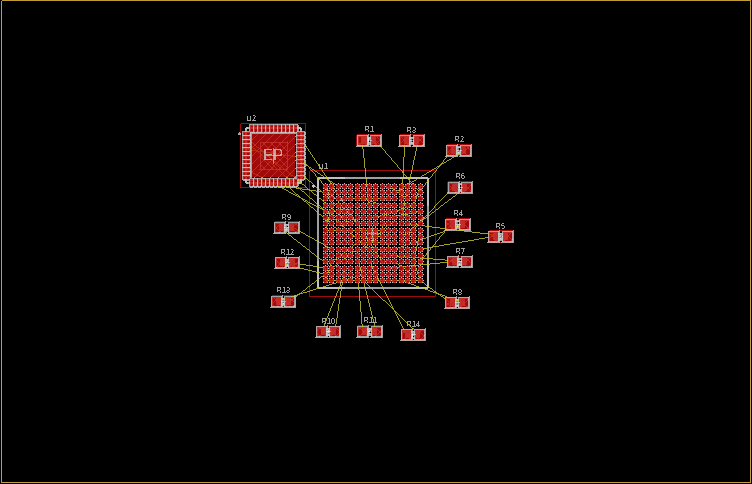
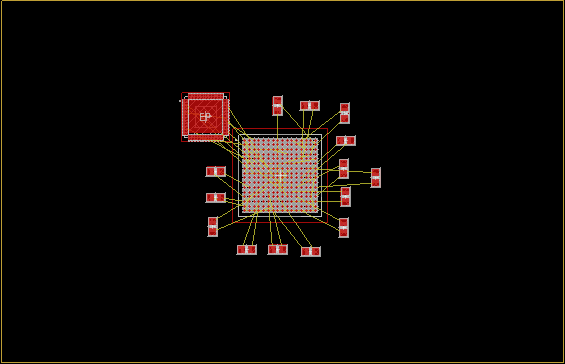
Refresh placer before/after images; align docs with selection-driven placer
New before/after screenshots from a converged tighten-placement run
(signal-airwire 2899 -> 375 mm, -87%; crossings 432 -> 34). PLACE.md and
README reworded to match the current selection-driven placer: rotation
always on, always writes + verifies, GROUP-select input, kept
design-agnostic.

Changed region(s): [[0.3009, 0.2418, 0.692, 0.7253], [0.0, 0.0, 1.0, 1.0]]

diff --git a/docs/PLACE.md b/docs/PLACE.md
@@ -1,12 +1,13 @@
 # Placement — minimal-airwire component placement
 
 `src/place.py` is Steinmetz's first tool. It reads a live Fusion Electronics
-board, computes an **initial placement that minimizes ratsnest (airwire)
-length**, and writes the moves back over the bridge. It is *constructive* — it
-places parts from their connectivity rather than nudging an existing layout.
-By default it is **translation-only**; with `--rotate` it adds a 90°-step
-**orientation** refinement that further shortens airwire and breaks crossings
-(see [§5](#5-rotation---rotate)).
+board and re-places the **selected** parts to minimize ratsnest (airwire)
+length, holding every other part fixed, then writes the moves back over the
+bridge and verifies them. The selection is read over the bridge (see
+`src/selection.py`) — **select nothing and it does nothing**. Placement is
+connectivity-driven — it positions the selected parts from where their nets land
+on the fixed board rather than nudging an existing layout — and it always runs a
+rotation-refinement pass (`--rotate` sets the step, default 90°).
 
 ## Iterative tightening loop
 
@@ -19,15 +20,15 @@ by < 1 mm.
 
 ## Before / after
 
-A 16-part ECP5 BGA board with the passives scattered off-board, placed in one
-pass (`--anchors 1`, anchoring only the BGA):
+A set of selected parts pulled from a scattered state into a tight cluster that
+minimizes airwire, while the rest of the board stays fixed:
 
-| Before — scattered | After — placed |
+| Before | After |
 |---|---|
 | ![before](img/place-before.png) | ![after](img/place-after.png) |
 
-**Signal-airwire: 3084 → 377 mm (−88%)**, 15 parts moved and verified. The
-fan of long airwires collapses into a tight ring of short ones hugging the BGA.
+Each run prints the before/after signal-airwire length and crossing count; the
+tightening loop refreshes these images from a converged run.
 
 ## Methodology
 
@@ -48,26 +49,27 @@ its pad positions (`mst_len` in `place.py`) — the same thing Fusion's ratsnest
 draws. The cost is the sum over **signal nets only**: power/plane nets (`GND`,
 `VCC*`, anything with ≥ 8 pins) are excluded, because they are poured/planed
 rather than routed point-to-point — counting them would just drag every
-decoupling cap onto the BGA. Classification is `is_power()` (name pattern or
-high fan-out); extra nets can be excluded with `--ignore-nets`.
+decoupling cap toward the fixed parts. Classification is `is_power()` (name
+pattern or high fan-out); extra nets can be excluded with `--ignore-nets`.
 
-### 3. Anchors — why something must stay fixed
+### 3. The fixed frame — why something must stay put
 
-Airwire length is **relative**: with no fixed part, the global optimum is "every
-part stacked on one point" (airwire → 0), which is meaningless. So the placer
-**pins the N largest-area packages** (the ICs) plus any `--lock` matches, and
-moves everything else. The BGA is the natural anchor — biggest, highest-pin,
-the center of the design. `--anchors 1` pins only it and moves all the rest
-(including a second IC); `--anchors 2` pins the top two.
+Airwire length is **relative**: if every part could move, the global optimum is
+"all parts stacked on one point" (airwire → 0), which is meaningless. The placer
+resolves this by moving **only the selected parts** and holding everything else
+fixed — the unselected parts are the reference frame the selection is pulled
+toward. So the selection *is* the input: group the parts you want placed and
+leave the parts you want as anchors out of the group. `--only REF…` overrides the
+live selection with an explicit ref list. Select nothing → nothing moves.
 
 ### 4. Constructive placement — two phases
 
 **a. Barycentric relaxation (the pull).** A part's airwire-optimal spot is the
 **centroid of the pads it connects to on other parts**. The placer computes that
-target for every movable part and moves it there, iterating Gauss-Seidel (using
+target for every selected part and moves it there, iterating Gauss-Seidel (using
 neighbours' updated positions) until it converges (`_target` / `solve`). This is
 the classic force-directed / quadratic placement: it minimizes summed-squared
-airwire and lets connected parts settle relative to the anchored ICs.
+airwire and lets the selected parts settle relative to the fixed ones.
 
 **b. Legalization (the spread).** Barycentric pulls parts together until their
 courtyards overlap, so each part — most-central first — is placed at its target
@@ -78,11 +80,11 @@ the `Package` bounding box.
 
 ### 5. Rotation (`--rotate`)
 
-By default parts keep their current rotation; each pad moves rigidly with its
-element's centre (`_pad_global`). `--rotate` adds a third phase, run **after**
-legalization with every part's centre held fixed: each movable part tries the
-four 90° orientations and keeps the one that most lowers the objective
-**airwire length + `--cross-weight`·crossings** — a greedy coordinate descent
+Rotation is **always on**; `--rotate DEG` sets the step (default **90°** →
+0/90/180/270; `--rotate 1` lets parts rotate freely in 1° steps). Run **after**
+legalization with each part's centre held fixed, every selected part tries the
+candidate orientations and keeps the one that most lowers the objective **airwire
+length + `--cross-weight`·crossings** — a greedy coordinate descent
 (`refine_rotations`) swept to convergence. Rotation reorients a part's own pads,
 so it shortens the nets it touches and can *uncross* airwires whose crossing is
 just a pad-ordering artifact.
@@ -93,32 +95,34 @@ Two deliberate choices keep it honest:
   (`--cross-weight`, default 2.0) that breaks near-ties — it never trades real
   length away to shave a crossing. The before/after **crossing count** is
   printed next to the airwire numbers so you can see the effect and tune it.
-- **Ties hold the current angle**, so `Δ = 0` is the default and a second
-  `--rotate` run on an already-placed board emits **no** rotations (idempotent).
+- **Ties hold the current angle**, so `Δ = 0` is the default and a second run on
+  an already-placed board emits **no** rotations (idempotent).
 
 Rotation depends on how Fusion applies `ROTATE Rn` to pad coordinates —
 counter-clockwise-positive, `(dx,dy) → (-dy,dx)` for 90° (confirmed live: a
-`ROTATE R90` moved all 15 pads of an IC there). So rotation is **opt-in**,
-mirrored (bottom-side) parts are left alone (their angle field may not capture
-the flip), and `--apply` re-reads the board and checks **actual pad positions
-vs. prediction** for every touched part (see §6) — the gate that proves the
-transform matched Fusion.
+`ROTATE R90` moved all of a part's pads there). Right-angle steps use an exact
+integer remap; other steps fall back to trig, with the pad-position tolerance
+absorbing the round-off. Mirrored (bottom-side) parts are left un-rotated (their
+angle field may not capture the flip), and after writing, the tool re-reads and
+checks **actual pad positions vs. prediction** for every touched part (see §6) —
+the gate that proves the transform matched Fusion.
 
 > **Command quirk:** the part name must be **single-quoted** for `ROTATE`
-> (`ROTATE R90 'R4'`). A bare `ROTATE R90 R4` is silently a no-op — the parser
-> doesn't bind the object — even though `MOVE R4 (x y)` takes the name bare.
+> (`ROTATE R90 '<part>'`). A bare `ROTATE R90 <part>` is silently a no-op — the
+> parser doesn't bind the object — even though `MOVE <part> (x y)` takes the name
+> bare.
 
 ### 6. Write back and verify
 
-For each touched part the placer emits a relative `ROTATE Rn <part>` (preserves
-mirror state) followed by `MOVE <part> (x y)` — both pivot on the element
-origin, so order does not matter — and fires them as **one terminated batch**
-over the bridge (`run_eagle_batch(..., grid="MM")`). It then re-reads the board
-and verifies twice: every element **landed within 0.05 mm**, and — the stronger
-gate — each touched part's **predicted pad positions match the board's actual
-pads** (`_pads_match`). A mismatch (wrong angle sign, an unhandled mirror) is
-flagged loudly rather than silently shipped. Changes are unsaved until you save
-in Fusion — reopening reverts them.
+For each touched part the placer emits a relative `ROTATE Rn '<part>'` (preserves
+mirror state) followed by `MOVE <part> (x y)` — both pivot on the element origin,
+so order does not matter — and fires them as **one terminated batch** over the
+bridge (`run_eagle_batch(..., grid="MM")`). It then re-reads the board and
+verifies twice: every element **landed within 0.05 mm**, and — the stronger gate
+— each touched part's **predicted pad positions match the board's actual pads**
+(`_pads_match`). A mismatch (wrong angle sign, an unhandled mirror) is flagged
+loudly rather than silently shipped. Changes are unsaved until you save in Fusion
+— reopening reverts them.
 
 ## What it does *not* do
 
@@ -128,35 +132,33 @@ crossings). It does not consider:
 - **routing congestion**, or crossings that need two parts to *swap places* —
   rotation keeps a part's centre fixed, so it cannot fix those; full crossing
   elimination needs repositioning (future work),
-- a BGA's **decoupling caps wanting to sit at their power balls**,
+- decoupling caps that should sit at specific power pins per the datasheet,
 - and none of the constraints that live *outside* the board file — thermal
   spreading, EMI zoning, connector/mechanical positions, datasheet-mandated
   hot-loop layouts.
 
 So treat the result as a fast, sensible **constructive seed** — a starting
 placement, not a finished layout. It is deterministic, and roughly idempotent:
-re-running on an already-placed board changes little.
+re-running on an already-placed selection changes little.
 
 ## Usage
 
 ```bash
-python src/place.py                 # propose only — print moves + before/after, no writes
-python src/place.py --apply         # propose, then MOVE the parts in Fusion (verified)
-python src/place.py --rotate        # also try 90° rotations (shorter airwire, fewer crossings)
-python src/place.py --apply --rotate --anchors 1   # rotate + place, pin only the biggest part
-python src/place.py --lock "J*" --ignore-nets "VCC*" "3V3"
+python src/place.py                 # place the current selection (90° rotation), write + verify
+python src/place.py --rotate 1      # let parts rotate freely, in 1° steps
+python src/place.py --only R4 R5 R8 # override the selection with an explicit ref list
+python src/place.py --ignore-nets "VCC*" "3V3"
 ```
 
 | flag | default | meaning |
 |------|---------|---------|
-| `--apply` | off | write the moves (otherwise dry-run) |
-| `--rotate` | off | also pick a 90°-step rotation per part (min airwire, fewer crossings) |
-| `--cross-weight MM` | 2.0 | airwire-crossing penalty when `--rotate` (length stays primary) |
-| `--anchors N` | 2 | pin the N largest parts in place |
-| `--lock PAT…` | – | also pin parts whose ref matches these patterns |
+| `--rotate DEG` | 90 | rotation step in degrees, always on (`1` = free rotation) |
+| `--cross-weight MM` | 2.0 | airwire-crossing penalty (length stays primary) |
+| `--only REF…` | – | place these refs instead of the live selection |
 | `--ignore-nets PAT…` | – | extra net-name patterns to exclude from airwire scoring |
 | `--clearance MM` | 0.3 | courtyard gap between parts |
 | `--margin MM` | 1.0 | keep parts this far inside the board edge |
 
-Run with a board open in Fusion and the bridge reachable (see
+GROUP-select the parts to place first (see `src/selection.py`), and run with a
+board open in Fusion and the bridge reachable (see
 [fusion-bridge.md](fusion-bridge.md)).

diff --git a/README.md b/README.md
@@ -54,9 +54,10 @@ running Fusion Electronics session, in both directions.
 > built on top of it.
 
 On top of that base, tools get added — placement, swaps, checks, exports. The
-first proof of concept was a minimal-airwire **parts placer** that read a BGA
-board, pulled its passives toward the pads they connect to, and wrote the moves
-back: 2060 → 376 mm of ratsnest, end to end over this bridge.
+first proof of concept was a minimal-airwire **parts placer** that reads a live
+board, pulls the selected parts toward the pads they connect to, and writes the
+moves back over this bridge — collapsing a fan of long airwires into short ones,
+end to end.
 
 ## The path
 